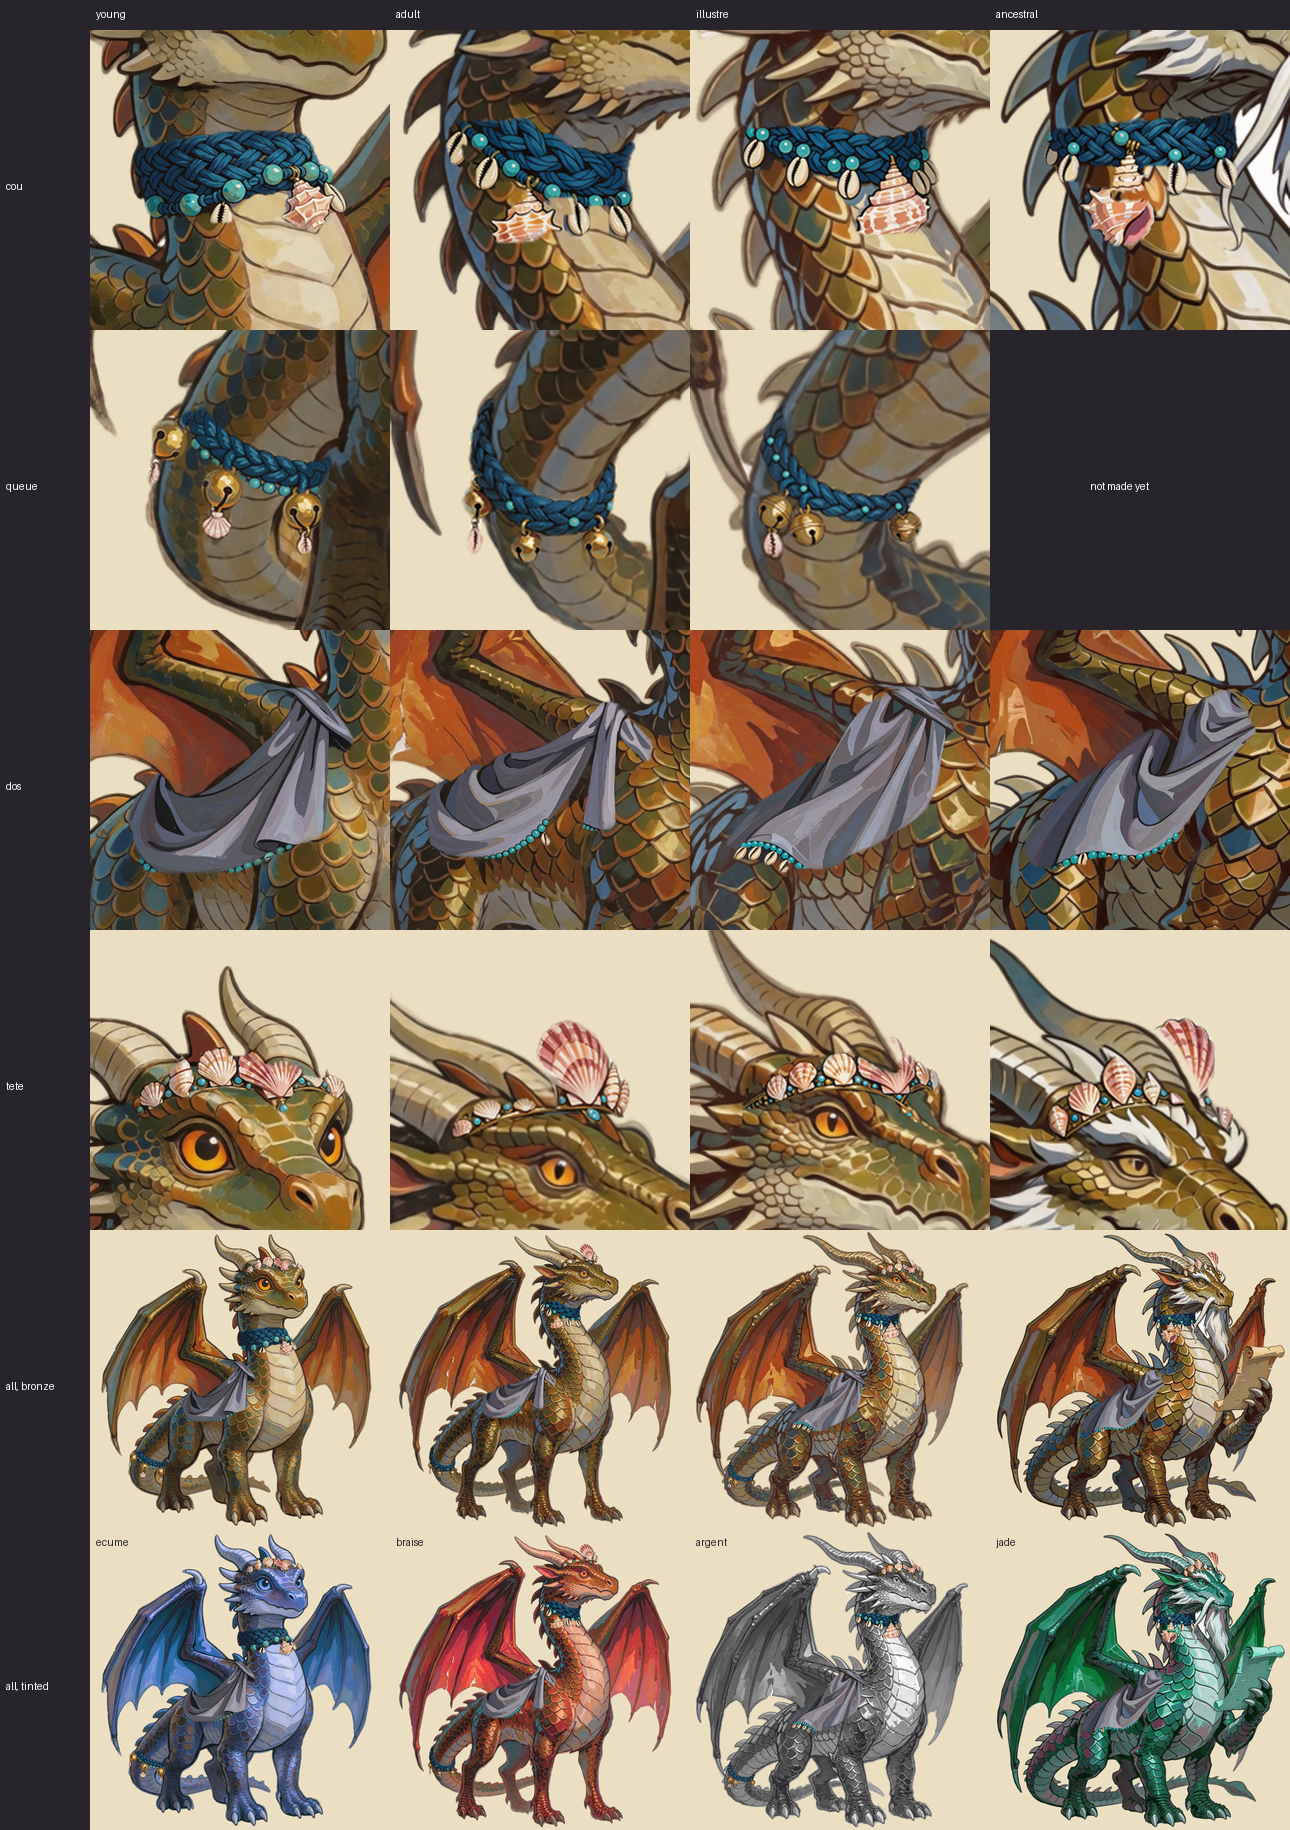
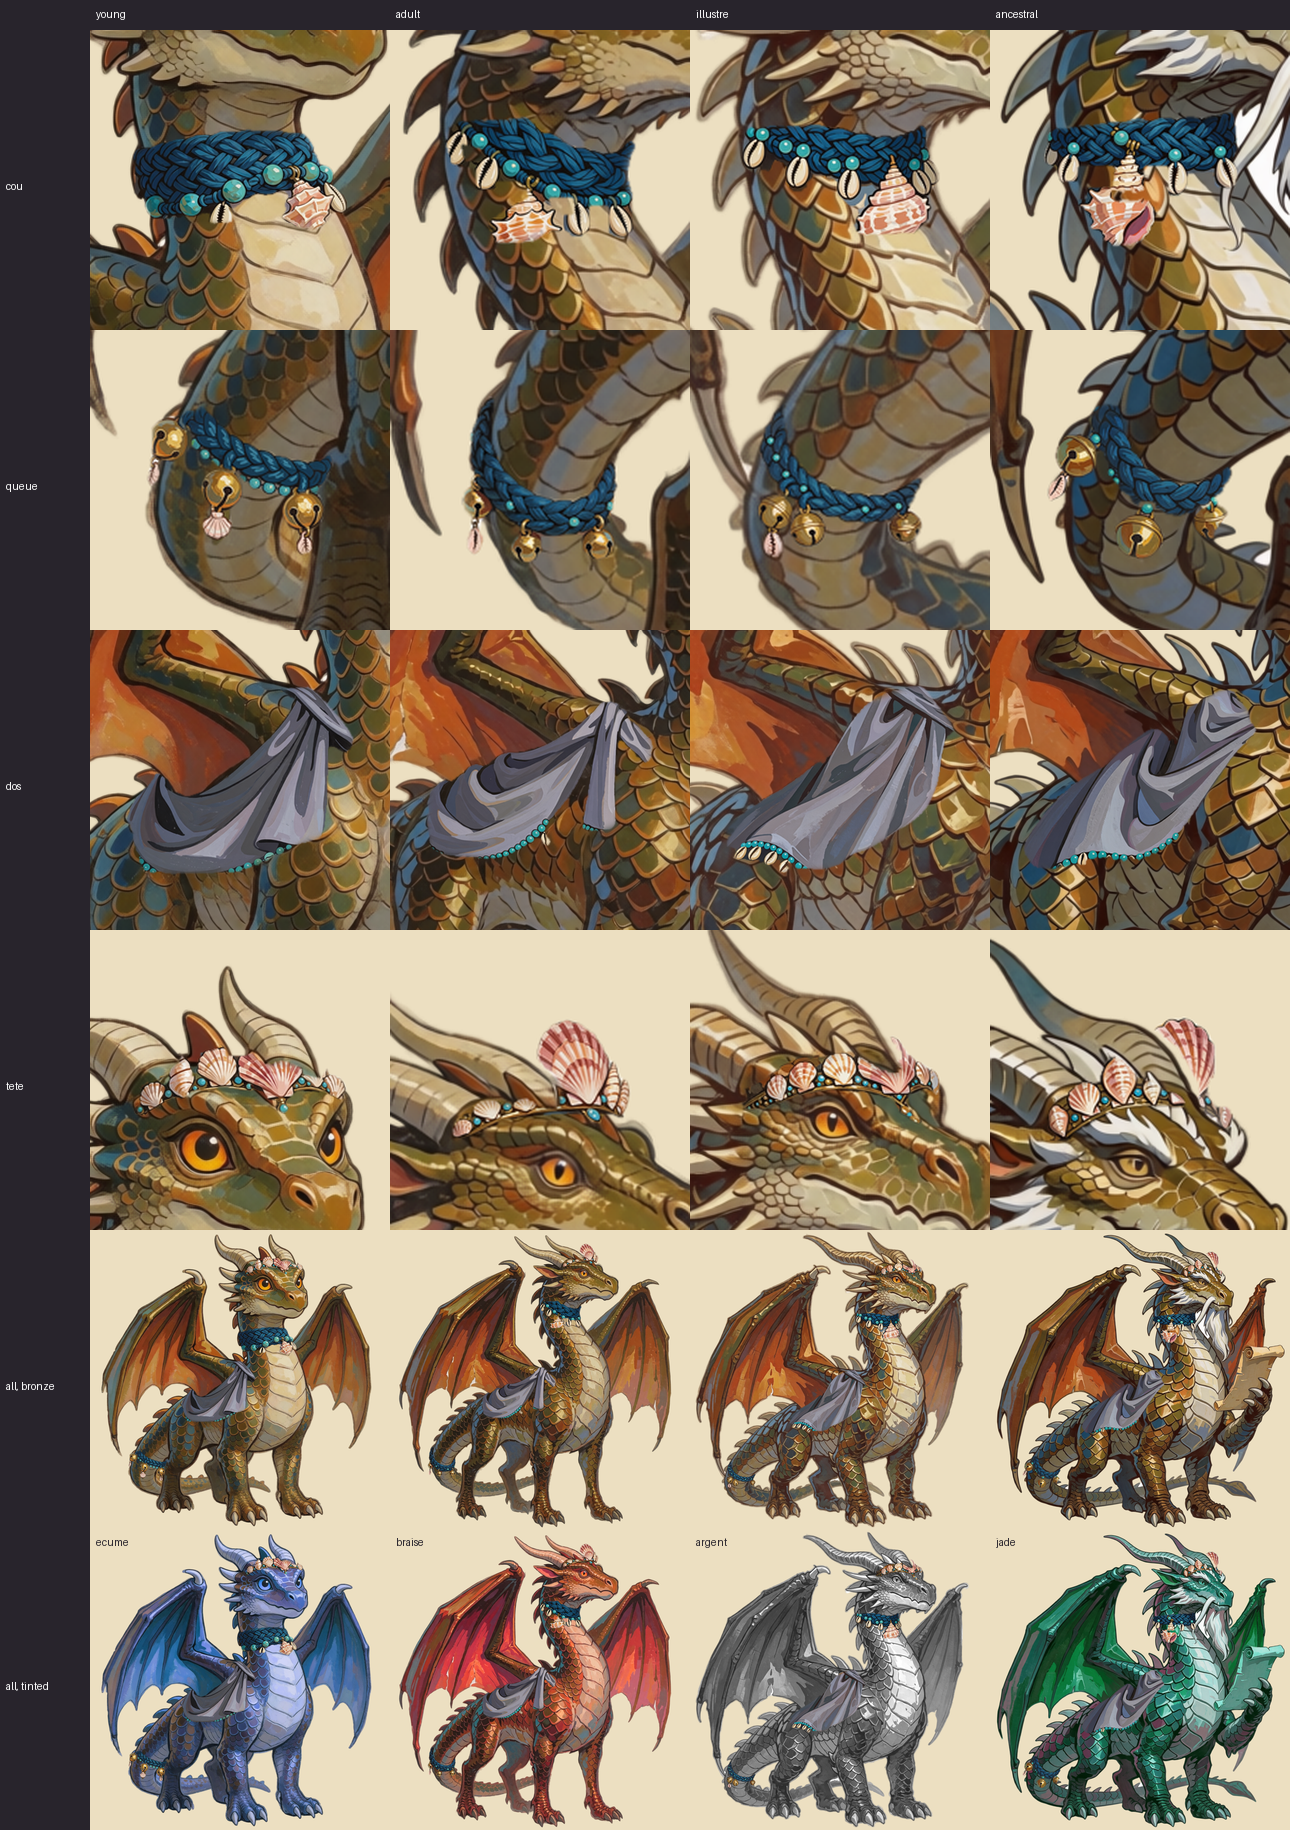
Art: Echo's last overlay, the ancestral tail bells (seed 1442, slot + 22 px down, band and three bells extracted apart and merged; 1441 and 1443 rejected), crop in echo.json, contact sheet with all 16, style guide seed

Changed region(s): [[0.7442, 0.1557, 1.0, 0.3426]]

diff --git a/docs/art/style-guide.md b/docs/art/style-guide.md
@@ -534,7 +534,7 @@ WebPs and the manifest fragment `echo.json` in `assets/art/export/dragon/accesso
 | Item (slot, denoise) | young | adult | illustre | ancestral |
 |---|---|---|---|---|
 | pendentif-conque (cou, 0.75) | 1141 | 1241 | 1323 | 1423 |
-| clochettes de bronze (queue, 0.75, slot + 22 px down) | 1173 | 1221 | 1344 | not made yet |
+| clochettes de bronze (queue, 0.75, slot + 22 px down) | 1173 | 1221 | 1344 | 1442 |
 | cape couleur de roche (dos, 0.8) | 1161 | 1231 | 1333 | 1433 |
 | diadème de coquillages (tête, 0.85) | 1112 | 1212 | 1312 | 1413 |
 
@@ -544,7 +544,9 @@ WebPs and the manifest fragment `echo.json` in `assets/art/export/dragon/accesso
   tiny pink shell charm. Inpainted and extracted on the slot united with itself shifted 22 px down
   (`tools/art/extmask.py`), and extracted part by part (band, each bell) then merged. Rejected: young
   1131-1133 (bells cut flat by the slot's bottom edge), illustre 1341-1343 (the band stopped ~20 px
-  short of the tail's edge or lay across it like a sash).
+  short of the tail's edge or lay across it like a sash), ancestral 1441 (two bells, one cut by the
+  slot) and 1443 (a sash ~20 px short of the inner outline). The ancestral 1442 has a shell charm on
+  one bell only.
 - **Dos**: a short draped cloak of matte slate-grey wool with lilac-grey folds, its hem edged with
   turquoise beads and cowries, knotted at the shoulder behind the wing.
 - **Tête**: a thin bronze band across the brow set with upright pink and cream scallop shells,
